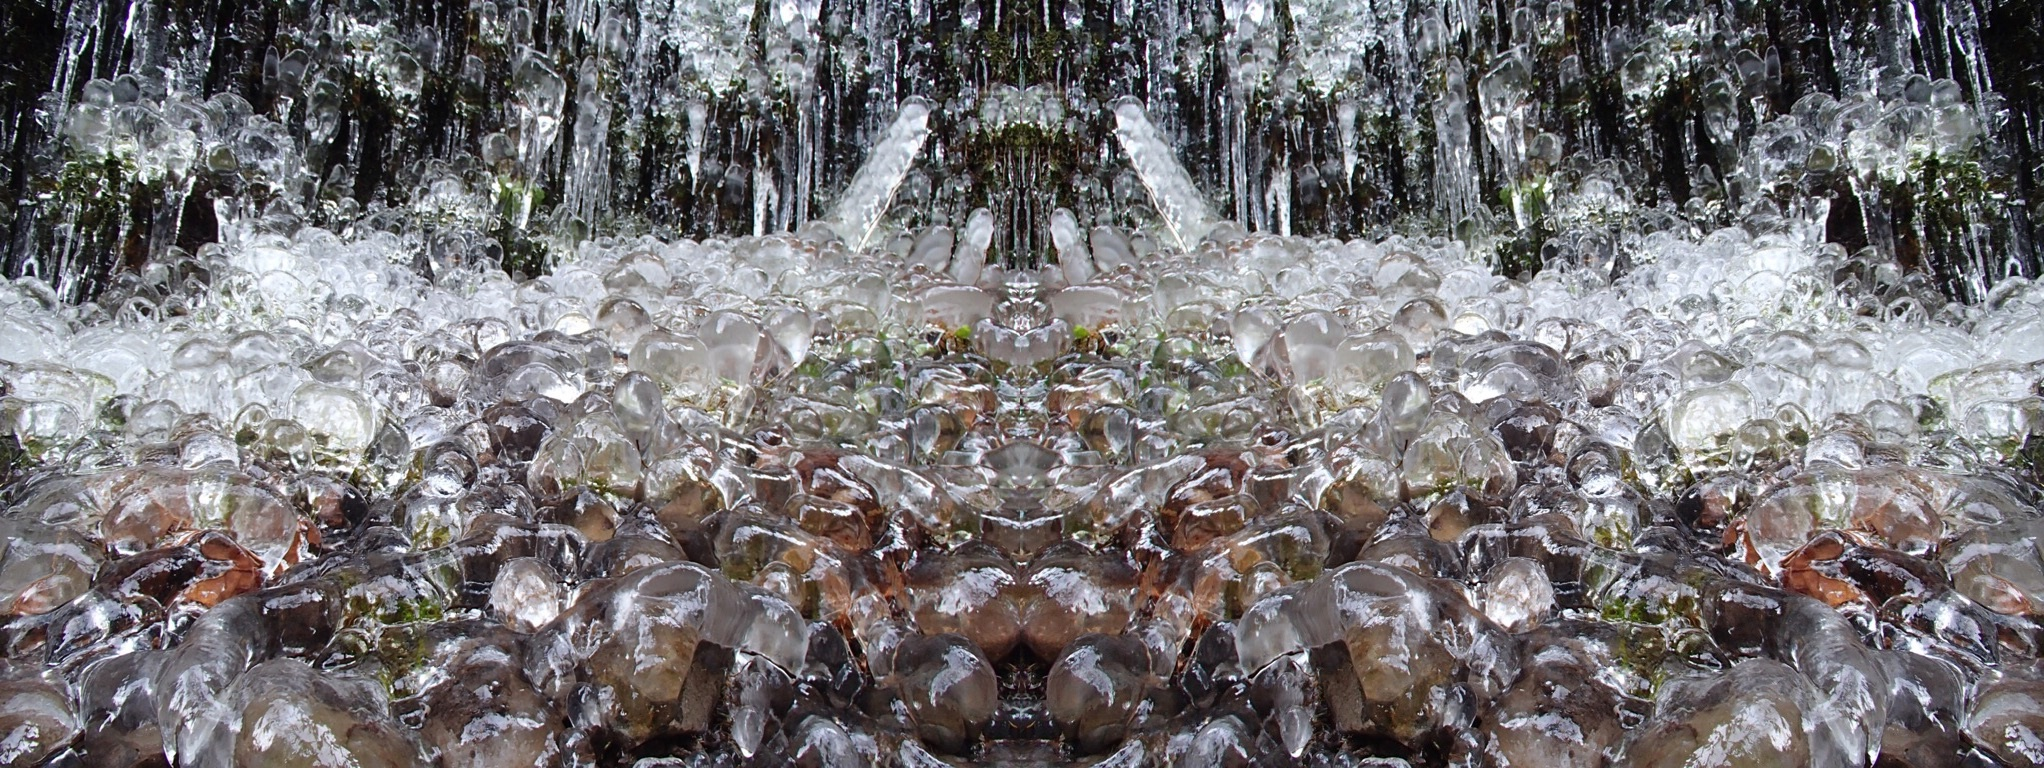
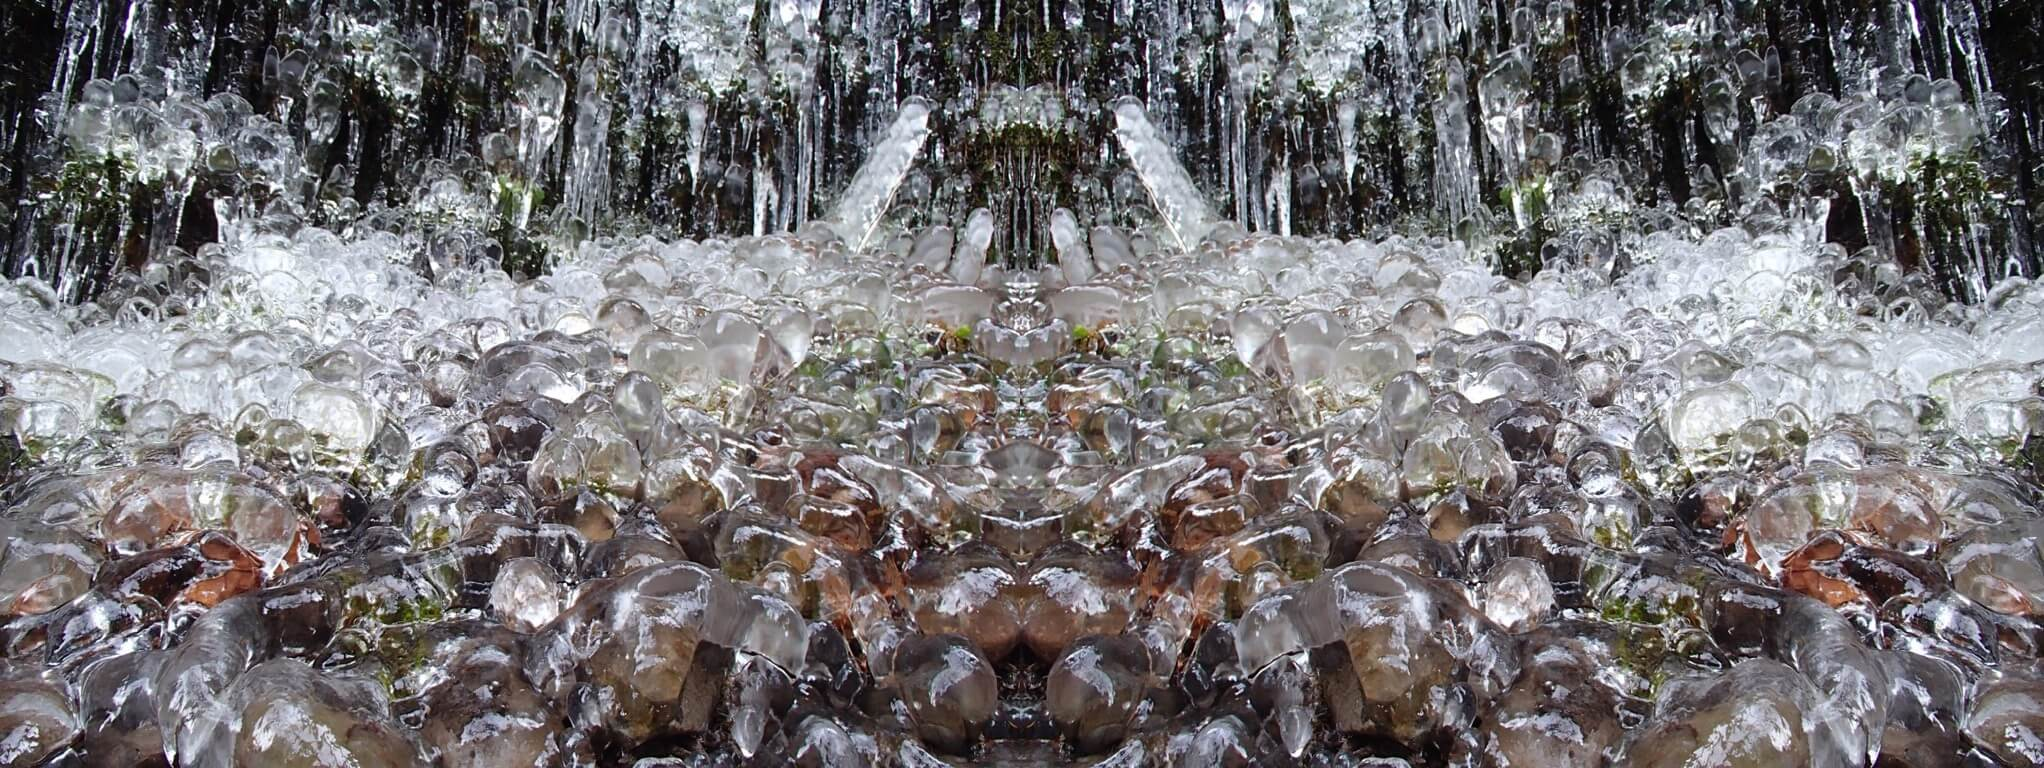
optimize images

diff --git a/whois.html b/whois.html
@@ -63,7 +63,7 @@
         </div>
         <br />
         <br />
-        <div class="row drk-panel content">
+        <div class="row drk-panel" id="content">
           <div class="large-12 columns small-centered boom" style="width:100%;background-color:hotpink;border-radius:4px;opacity:0.7;">
                <h3 class="boom shadowed">who runs this show?!?</h3>
           </div>
@@ -931,9 +931,8 @@
            </div>
            <div class="small-12 medium-12 large-6 columns">
                      <br />
-                     <br />
-                     <br />
-             <div class="center-container white-mini-bg">
+                     
+                <div class="center-container white-mini-bg">
                      <br />
                      <h5 class="text-center">Feel Free To Make Contact</h5>
                 <p class="boom">Patience and perseverance have a magical effect before which difficulties disappear and obstacles vanish.<br />
@@ -955,6 +954,7 @@
                         
         </footer>
         </div>
+        
                 <script src="js/vendor/fastclick.js"></script>
                 <script src="https://code.jquery.com/jquery-2.1.4.min.js"></script>
                 <script src="http://dhbhdrzi4tiry.cloudfront.net/cdn/sites/foundation.js"></script>
